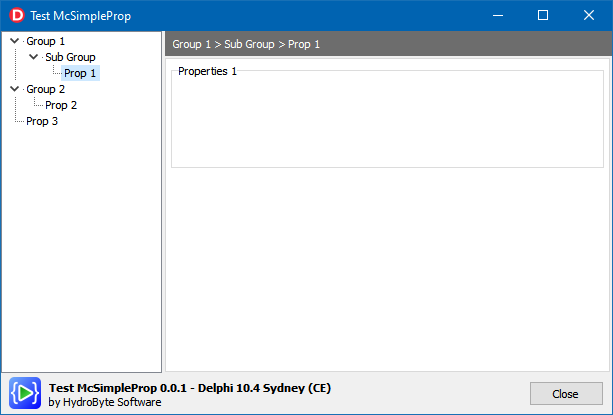
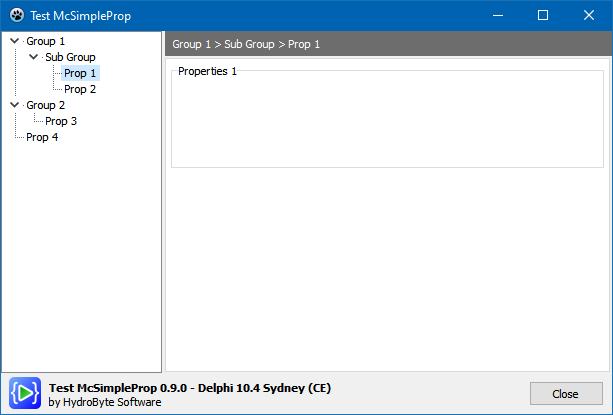
Improved tests and README.md

Changed region(s): [[0.0, 0.2024, 0.155, 0.347], [0.0, 0.0, 0.062, 0.0578], [0.279, 0.9253, 0.31, 0.9542]]

diff --git a/README.md b/README.md
@@ -24,13 +24,11 @@ Into a `TForm` or a `TFrame` descendant unit, add a `TTreeView` and a `TPageCont
 
 ![](./images/Github-01-C.png)
 
-Into the designer, add pages to `TPageControl` and setup each TTabSheet's `Caption` property using names that will be shown into the `TTreeView` navigator. You can create a special tab with `PageIndex = 0` to be shown as a Group node.
+Into the designer, add pages to the `TPageControl` and setup each TTabSheet's `Caption` property using names that will be shown into the `TTreeView` navigator. 
 
-Into your code, add some nodes associated with tabs. 
+> Hint: You can create a special tab with `PageIndex = 0` to be shown when a Group node is selected. The [test](https://github.com/hydrobyte/McSimpleProp/tree/main/test) projects use this in order to show the "Please select an option on the left." message.
 
-You can use `aNode = nil` and `isParent = false` to create Groups of nested Properties on `TTreeView`'s first level of nodes.
-
-To create a child for a `node`, pass it into `aNode` and set `isParent = true`. 
+Into your code, add some nodes associated with tabs, like the following example. 
 
 ```pascal
 procedure TFormMain.FormCreate(Sender: TObject);
@@ -43,9 +41,10 @@ begin
   node := fMcSimpleProp.AddNode('Group 1'   , nil , false);
   node := fMcSimpleProp.AddNode('Sub Group' , node, true );
   node := fMcSimpleProp.AddNode(Tab1.Caption, node, true );
+  node := fMcSimpleProp.AddNode(Tab2.Caption, node, false);
   node := fMcSimpleProp.AddNode('Group 2'   , nil , false);
-  node := fMcSimpleProp.AddNode(Tab2.Caption, node, true );
-  node := fMcSimpleProp.AddNode(Tab3.Caption, nil , false);
+  node := fMcSimpleProp.AddNode(Tab3.Caption, node, true );
+  node := fMcSimpleProp.AddNode(Tab4.Caption, nil , false);
   // ... prepare controls
   fMcSimpleProp.Prepare;
   // ... select node related to Tab1 by default
@@ -53,7 +52,12 @@ begin
 end;
 ```
 
-In order to respond to the user selection on the navigator, create a `TTreeView`'s `OnChange` event handler.
+You can use `aNode = nil` to create nodes at `TTreeView`'s first level. 
+
+If `aNode` is assigned, then you can add child (`isParent = true`) or sibling (`isParent = false`) nodes to it.
+
+Finally, in order to respond to the user selection on the navigator, create a `TTreeView`'s `OnChange` event handler.
+
 ```pascal
 procedure TFormMain.TreeViewChange(Sender: TObject; Node: TTreeNode);
 begin
@@ -62,4 +66,4 @@ begin
 end;
 ```   
 
-The `TLabel` component showing the `path` is optional.
+>Hint: The `TLabel` component showing the `path` is optional.
